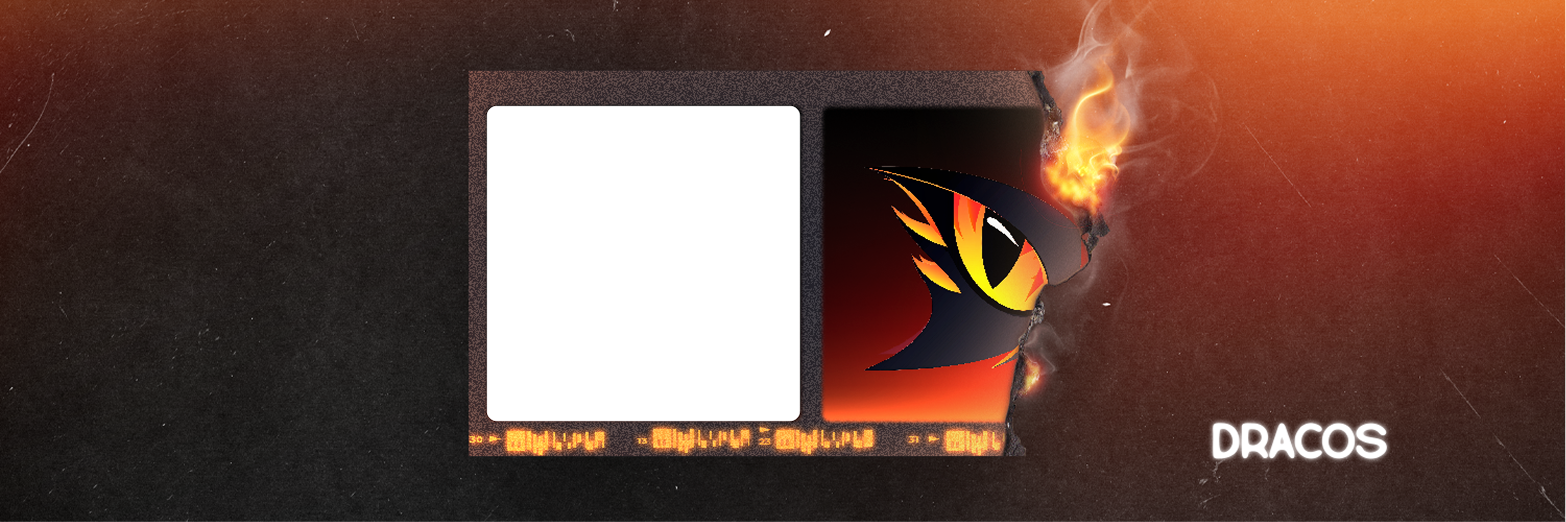
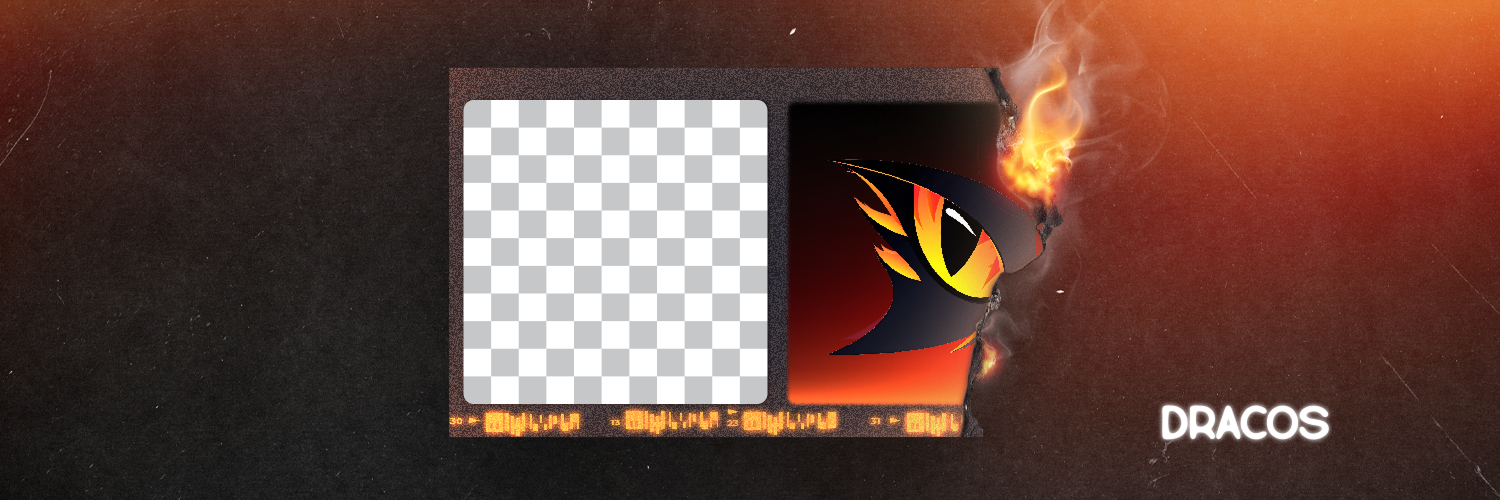
Fix glow effect

diff --git a/src/routes/Home.jsx b/src/routes/Home.jsx
@@ -13,6 +13,7 @@ import { useNavigate } from 'react-router'
 
 function Home() {
   const [totalSupply, setTotalSupply] = useState(0)
+  const [profile, setProfile] = useState()
   const [collection, setCollection] = useState()
   const [token, setToken] = useState()
 
@@ -286,27 +287,61 @@ function Home() {
       toast.dismiss(t)
     })
   }
-
-  const addToCanvas = (path, tokenId) => {
+  function roundedImage(ctx, x, y, width, height, radius) {
+    ctx.beginPath()
+    ctx.moveTo(x + radius, y)
+    ctx.lineTo(x + width - radius, y)
+    ctx.quadraticCurveTo(x + width, y, x + width, y + radius)
+    ctx.lineTo(x + width, y + height - radius)
+    ctx.quadraticCurveTo(x + width, y + height, x + width - radius, y + height)
+    ctx.lineTo(x + radius, y + height)
+    ctx.quadraticCurveTo(x, y + height, x, y + height - radius)
+    ctx.lineTo(x, y + radius)
+    ctx.quadraticCurveTo(x, y, x + radius, y)
+    ctx.closePath()
+  }
+  const addToCanvas = async (path, tokenId) => {
     const t = toast.loading(`Loading image`)
     // add the image to canvas
     const can = canvasRef.current
     const ctx = can.getContext('2d')
 
+    // Reset canvas
+    ctx.clearRect(0, 0, can.width, can.height)
+
+    await addBanner()
+
     const img = new Image()
     img.onload = function () {
-      ctx.drawImage(img, 466, 100, 300, 303)
       toast.dismiss(t)
+
+      ctx.save()
+      roundedImage(ctx, 464, 100, 303, 303, 10)
+      ctx.strokeStyle = '#000'
+      ctx.stroke()
+      ctx.clip()
+      ctx.drawImage(img, 464, 100, 303, 303)
+      ctx.restore()
+
+      addName()
+
+      addTokenId(tokenId)
     }
     img.crossOrigin = `anonymous`
     img.src = path
+  }
 
-    // Add token id
-    ctx.fillStyle = 'orange'
+  const addTokenId = async (tokenId) => {
+    const can = canvasRef.current
+    const ctx = can.getContext('2d')
+        ctx.fillStyle = 'orange'
     ctx.font = 'bold 16px Arial'
-    ctx.textAlign = 'center'
-    ctx.textBaseline = 'middle'
-    ctx.fillText(`#${_.toNumber(tokenId)}`, 792, 82, 100)
+    // Add token id
+    ctx.fillText(`${_.toNumber(tokenId)}`, 790, 90, 200)
+    ctx.shadowColor = 'gold'
+    ctx.shadowOffsetX = 2
+    ctx.shadowOffsetY = 2
+    ctx.shadowBlur = 4
   }
 
   const chooseLocalFile = (e) => {
@@ -334,9 +369,21 @@ function Home() {
     coverRef.current.classList.add(`animate__fadeOut`)
   }
 
-  useEffect(() => {
-    console.clear()
+  const addName = async () => {
+    handleSearchProfile(auth.accounts[0]).then((profile) => {
+      const can = canvasRef.current
+      const ctx = can.getContext('2d')
+      ctx.fillStyle = 'orange'
+      ctx.font = 'bold 16px Arial'
+      ctx.fillText(profile.data.search_profiles[0].fullName.toUpperCase(), 468, 88, 300)
+      ctx.shadowColor = 'orange'
+      ctx.shadowOffsetX = 2
+      ctx.shadowOffsetY = 2
+      ctx.shadowBlur = 8
+    })
+  }
 
+  const addBanner = async () => {
     // add the image to canvas
     const can = canvasRef.current
     const ctx = can.getContext('2d')
@@ -347,6 +394,42 @@ function Home() {
     }
     img.crossOrigin = `anonymous`
     img.src = Frame
+  }
+  const handleSearchProfile = async (addr) => {
+    var myHeaders = new Headers()
+    myHeaders.append('Content-Type', `application/json`)
+    myHeaders.append('Accept', `application/json`)
+
+    var requestOptions = {
+      method: 'POST',
+      headers: myHeaders,
+      body: JSON.stringify({
+        query: `query MyQuery {
+  search_profiles(
+    args: {search: "${addr}"}
+    limit: 1
+  ) {
+    fullName
+    id
+    profileImages {
+      src
+    }
+  }
+}`,
+      }),
+    }
+    const response = await fetch(`${import.meta.env.VITE_PUBLIC_API_ENDPOINT}`, requestOptions)
+    if (!response.ok) {
+      throw new Response('Failed to ', { status: 500 })
+    }
+    const data = await response.json()
+    setProfile(data)
+    return data
+  }
+
+  useEffect(() => {
+    console.clear()
+    addBanner()
   }, [])
 
   return (
@@ -384,7 +467,16 @@ function Home() {
         </aside>
 
         <main className={`${styles.main} d-f-c flex-column w-100`}>
[1 lines of base64/hex data omitted]
+          {/* <button
+            onClick={() =>
+              addToCanvas(
+                `https://api.universalprofile.cloud/image/bafybeifkvtmwqzjfpqjkd5jetjh7u7b6ixs36fwjvydne3s6sceduwn3g4?method=keccak256(bytes)&data=0xb6641e9cead9ce820a9fb1c3fa71fdfd4a45db431e1190b90fac71414dadb263&width=260&dpr=1.25`,
[1 lines of base64/hex data omitted]
+              )
+            }
+          >
+            add
+          </button> */}
           <header className={`${styles.header} d-flex align-items-center justify-content-between w-100`}>
             <figure className={`d-f-c grid--gap-1`}>
               <img alt={`${import.meta.env.VITE_NAME} Logo`} src={Logo} />
@@ -405,7 +497,7 @@ function Home() {
 
           <div className={`${styles.info} d-flex w-100 mt-40 grid--gap-1`}>
             <div className={`card`} data-shadow={`none`}>
-              <div className={`card__body`} style={{ padding: `1rem` }}>
+              <div className={`card__body`}>
                 <figure>
                   <img alt={`PNG`} src={IconPng} style={{ width: `32px` }} />
                 </figure>
@@ -413,7 +505,7 @@ function Home() {
             </div>
 
             <div className={`card`} data-shadow={`none`}>
-              <div className={`card__body d-f-c grid--gap-025`} style={{ padding: `1rem` }}>
+              <div className={`card__body d-f-c grid--gap-025`}>
                 <span className={`badge badge-dark`}>1500px</span>
                 <span className={`badge`} style={{ border: `none` }}>
                   500px
@@ -500,11 +592,15 @@ const ShowPFP = ({ account }) => {
       console.log(profile)
       setProfile(profile)
 
-      const can = document.querySelector(`canvas`)
-      const ctx = can.getContext('2d')
-      ctx.fillStyle = 'orange'
-      ctx.font = 'bold 16px Arial'
-      ctx.fillText(profile.data.search_profiles[0].fullName, 485, 88, 300)
+      // const can = document.querySelector(`canvas`)
+      // const ctx = can.getContext('2d')
+      // ctx.fillStyle = 'orange'
+      // ctx.font = 'bold 16px Arial'
+      // ctx.fillText(profile.data.search_profiles[0].fullName.toUpperCase(), 468, 88, 300)
+      // ctx.shadowColor = 'orange'
+      // ctx.shadowOffsetX = 2
+      // ctx.shadowOffsetY = 2
+      // ctx.shadowBlur = 8
     })
   }, [])
 

diff --git a/src/styles/components/_card.scss b/src/styles/components/_card.scss
@@ -54,7 +54,7 @@
     -ms-flex: 1 1 auto;
     flex: 1 1 auto;
     border-radius: inherit;
-    padding: 1rem 1.5rem;
+    padding: .5rem;
     background-color: var(--white);
   }
 
